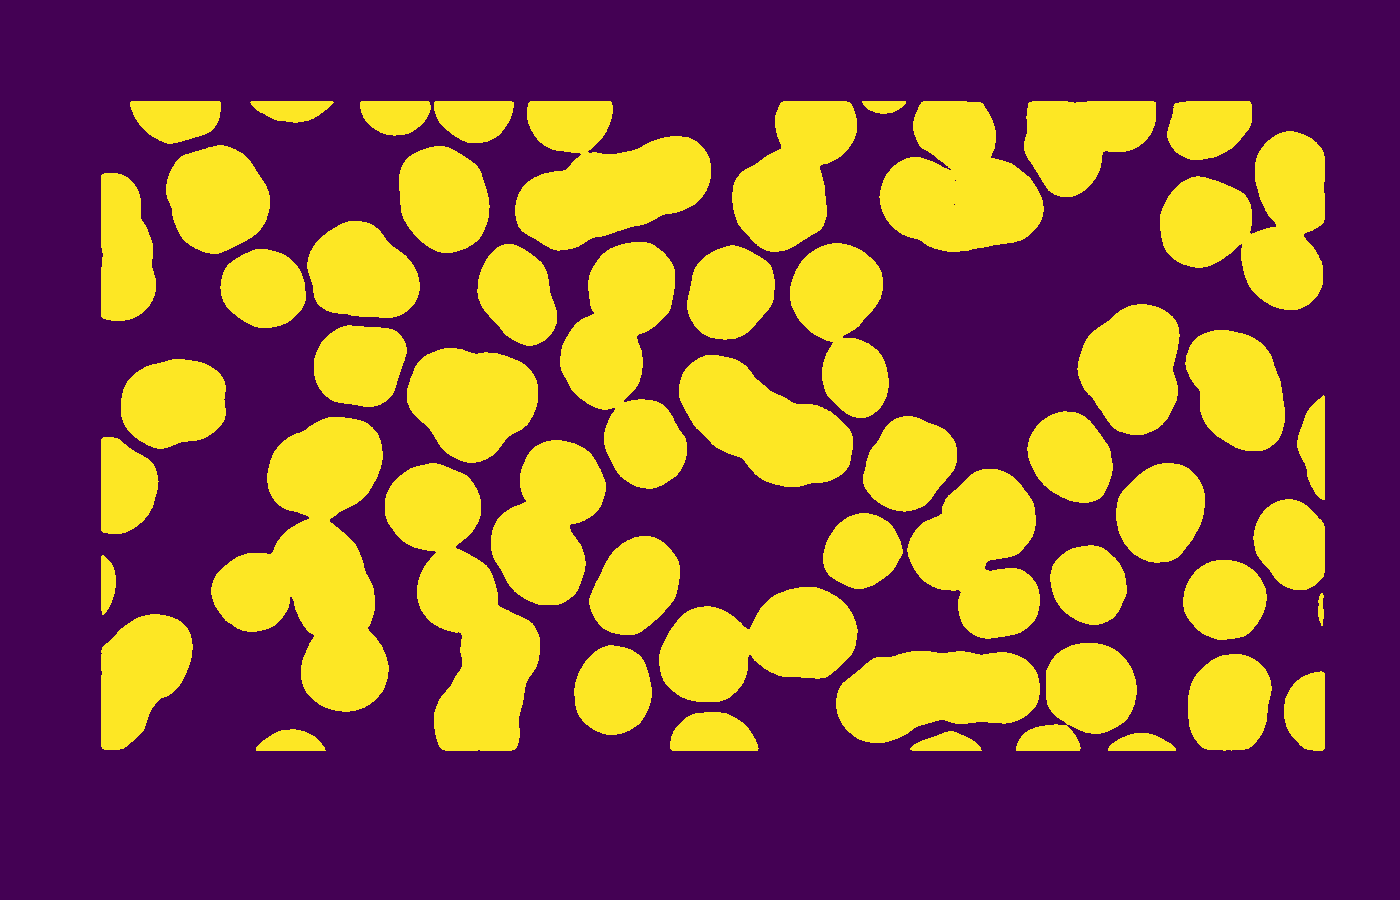
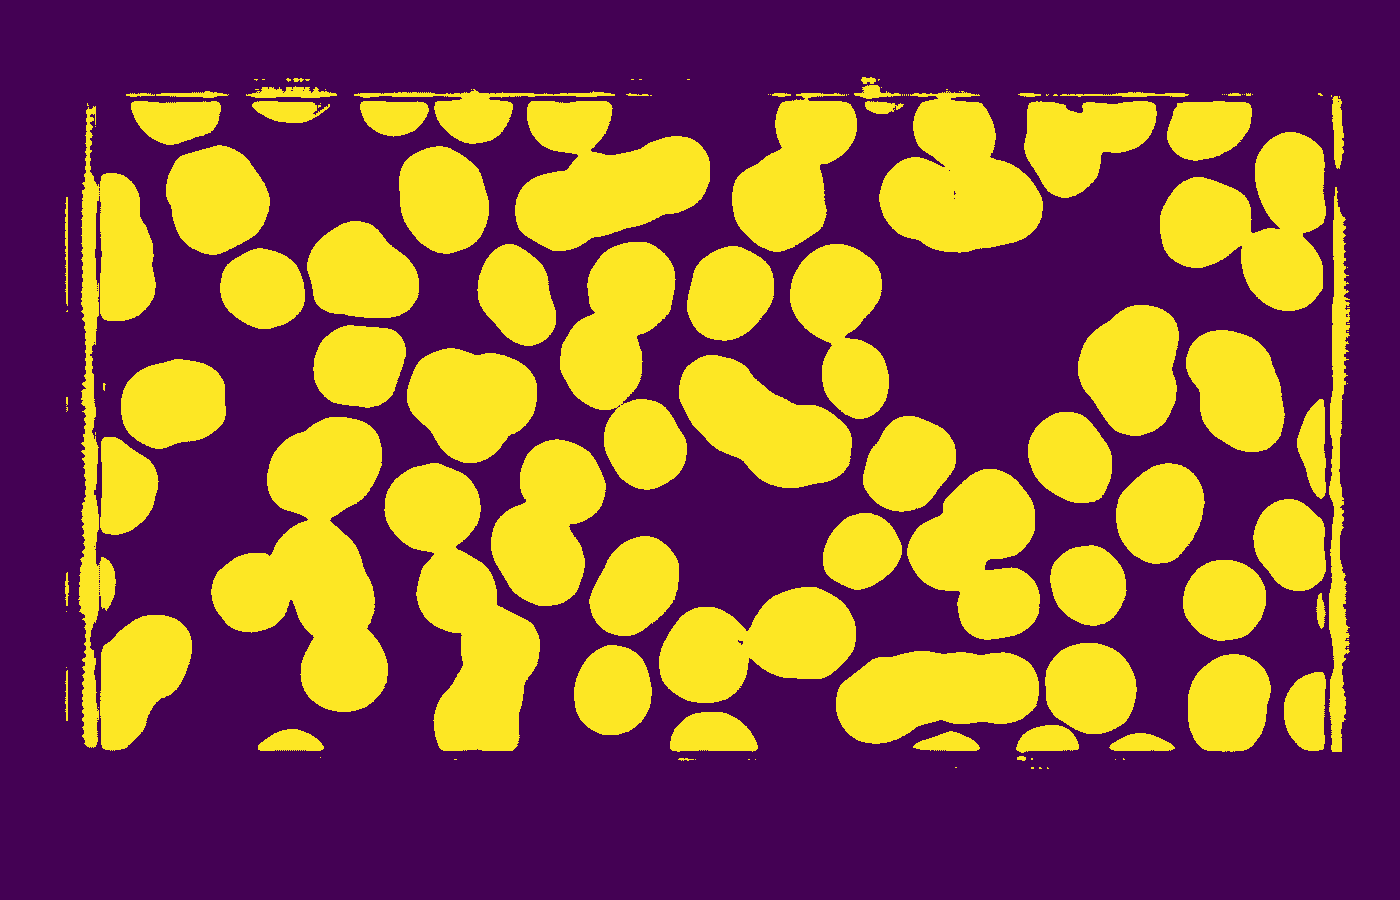
Updated output threshholded mask!

diff --git a/src/run.py b/src/run.py
@@ -174,6 +174,8 @@ def count_circles(img='edge.png'):
 if __name__ == '__main__':
     # train('binary_crossentropy')
     # evaluate('binary_crossentropy')
-    predict(model_name='binary_crossentropy', img='dz-1.jpg')
+    predict(model_name='binary_crossentropy')
+    threshold(img='mask.png')
     threshold(img='edge.png')
+    threshold(img='edge-mask.png')
     count_circles(img='edge.png')
